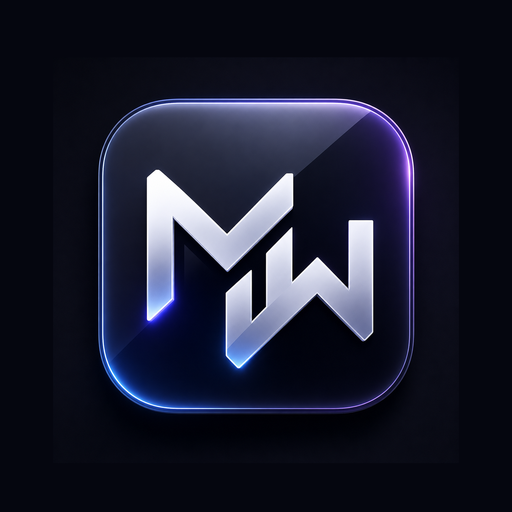
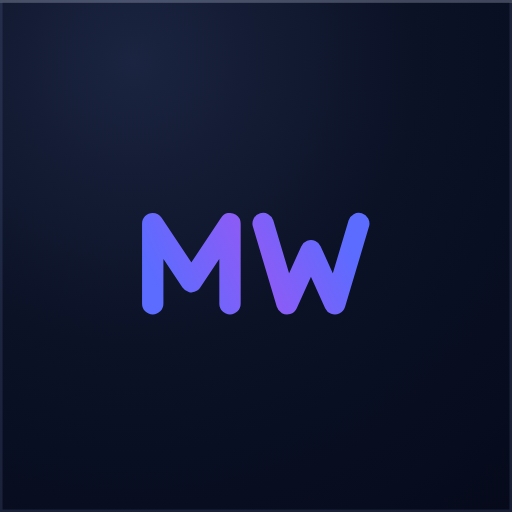
prévia v101-beta: ícone MW correto e cor de destaque funcionando
Os ícones do PWA passam a sair do mesmo desenho da marca de dentro do app
— o anterior era outro traçado, que no tamanho da tela de início do
iPhone lia "EW".

A cor de destaque passa a funcionar de verdade: uma semente por cor e por
tema, com todo o resto derivado. A implementação antiga gravava as
variáveis como estilo inline (que vence qualquer folha) e escrevia só
três dos tokens, deixando realces e links no roxo original.

Claude-Session: https://claude.ai/code/session_012kzAwK6kJPTUP3Xikghae8

diff --git a/beta/index.html b/beta/index.html
@@ -37,6 +37,12 @@ try {
 (function(){try{
   var d = JSON.parse(localStorage.getItem('mateusWorkspaceV4') || '{}');
   document.documentElement.setAttribute('data-ds-tema', d.theme === 'light' ? 'claro' : 'escuro');
+  /* A COR DE DESTAQUE entra aqui pelo mesmo motivo que o tema: ela é a
+     semente de onde nascem todos os tokens de acento. Se fosse aplicada
+     depois, o primeiro quadro sairia roxo e viraria verde na frente da
+     pessoa — o "pisca" que o §5 manda não existir. */
+  var cor = ((d.settings || {}).accent) || 'indigo';
+  document.documentElement.setAttribute('data-acento', cor);
 }catch(e){ document.documentElement.setAttribute('data-ds-tema','escuro'); }})();
 </script>
 <link rel="stylesheet" href="ds/mw-ds.css">
@@ -22857,12 +22863,13 @@ html:root{
   --id-txt:#e9eefb;
   --id-txt-2:#b0bcd8; /* Etapa 0: era #a6b2ce e batia EXATAMENTE em 4,5:1 sobre o cartão de entrada — no limite, ou seja, reprovando por arredondamento. Clareado o suficiente para sair do fio da navalha. */
   --id-txt-3:#7b88a6;
-  /* acento: azul que caminha pro violeta */
-  --id-ac:#5b6cff;
-  --id-ac-2:#8b5cf6;
-  --id-ac-grad:linear-gradient(135deg,#4f5bff 0%,#8b5cf6 100%);
-  --id-ac-suave:rgba(91,108,255,.16);
-  --id-ac-txt:#93a3ff;
+  /* O ACENTO SAIU DAQUI (§2, §42).
+     Estes cinco eram hexadecimais escritos à mão, e enquanto existissem
+     não havia como trocar a cor do app sem caçar cada um. Agora eles
+     nascem todos da semente `--sem-1`/`--sem-2`, na folha
+     `mw-acento-configuravel` logo abaixo — uma origem só. Apagar aqui é o
+     conserto na origem; deixar os dois e empurrar o novo com
+     especificidade seria a camada em cima que não pode existir. */
   /* semânticas — cada uma com o par cor/fundo já resolvido */
   --id-ok:#34d399;      --id-ok-bg:rgba(16,185,129,.15);   --id-ok-bd:rgba(16,185,129,.26);
   --id-alerta:#fbbf24;  --id-alerta-bg:rgba(245,158,11,.15); --id-alerta-bd:rgba(245,158,11,.26);
@@ -22891,11 +22898,7 @@ html body.light{
      achatar os dois no mesmo tom só pra passar. */
   --id-txt-2:#4d5875;
   --id-txt-3:#5f6983;
-  --id-ac:#4f5bff;
-  --id-ac-2:#7c3aed;
-  --id-ac-grad:linear-gradient(135deg,#4f5bff 0%,#7c3aed 100%);
-  --id-ac-suave:rgba(79,91,255,.10);
-  --id-ac-txt:#4338ca;
+  /* idem para o tema claro: a semente do claro vive na folha do acento. */
   /* no claro o texto da cor precisa escurecer pra manter AA sobre o
      fundo tonalizado — não basta reusar o tom do escuro */
   --id-ok:#047857;      --id-ok-bg:rgba(5,150,105,.11);    --id-ok-bd:rgba(5,150,105,.24);
@@ -22905,6 +22908,87 @@ html body.light{
   --id-neutro:#475569;  --id-neutro-bg:rgba(71,85,105,.09); --id-neutro-bd:rgba(71,85,105,.18);
   --id-sombra:0 1px 2px rgba(20,40,90,.06),0 10px 28px rgba(20,40,90,.08);
   --id-sombra-alta:0 2px 4px rgba(20,40,90,.08),0 18px 44px rgba(20,40,90,.12);
+}
+</style>
+
+<style id="mw-acento-configuravel">
+/* =====================================================================
+   §2 — A COR DE DESTAQUE, CONFIGURÁVEL
+   =====================================================================
+   Antes desta folha o acento era um par de hexadecimais escritos à mão em
+   `--id-ac` / `--id-ac-2`, e mais uns tantos espalhados. Trocar a cor do
+   app significaria caçar todos eles — que é exatamente como o arquivo
+   ficou com azul, roxo, laranja e verde convivendo sem ninguém mandar.
+
+   Agora existe UMA SEMENTE por tema (`--sem-1`, `--sem-2`) e todo o resto
+   é DERIVADO dela com `color-mix`. Trocar a cor é trocar duas variáveis;
+   as 80 regras que leem `--ds-ac` e as 35 que leem `--mw-ac` acompanham
+   sozinhas, porque as duas famílias passam a nascer da mesma semente.
+
+   Por que semente diferente no claro: a mesma cor não serve nos dois
+   fundos. Sobre azul-noite o acento precisa ser mais luminoso para
+   aparecer; sobre branco precisa ser mais fundo para o texto branco em
+   cima dele passar de 4,5:1. Não é "inverter" — é reequilibrar.
+
+   O acento é IDENTIDADE, não papel de parede (§2): ele pinta o que é
+   ação, estado e marca. Superfície e fundo continuam neutros e frios —
+   é o contraste entre os dois que faz a cor ser percebida como escolha.
+   ===================================================================== */
+
+/* ---- as sementes, por cor (tema ESCURO) ----
+   Os ids são os que o seletor de Configurações já usava — índigo, ciano,
+   violeta, verde, âmbar, rosa. Não inventei nomes novos: a lista de cores
+   já existia, o que faltava era ela chegar até aqui. */
+html:root                          { --sem-1:#5b6cff; --sem-2:#8b5cf6; }  /* índigo — padrão */
+html:root[data-acento="ciano"]     { --sem-1:#0ea5e9; --sem-2:#22d3ee; }
+html:root[data-acento="violeta"]   { --sem-1:#8b5cf6; --sem-2:#d946ef; }
+html:root[data-acento="verde"]     { --sem-1:#10b981; --sem-2:#34d399; }
+html:root[data-acento="ambar"]     { --sem-1:#f59e0b; --sem-2:#fbbf24; }
+html:root[data-acento="rosa"]      { --sem-1:#ec4899; --sem-2:#f472b6; }
+
+/* ---- as sementes, por cor (tema CLARO) ----
+   Mais fundas: a mesma cor que brilha sobre azul-noite fica lavada sobre
+   branco, e o texto branco em cima dela não chega a 4,5:1. Não é inverter,
+   é reequilibrar — que é o que o §4 pede. */
+html:root body.light                        { --sem-1:#4f5bff; --sem-2:#7c3aed; }
+html:root[data-acento="ciano"] body.light   { --sem-1:#0369a1; --sem-2:#0e7490; }
+html:root[data-acento="violeta"] body.light { --sem-1:#7c3aed; --sem-2:#a21caf; }
+html:root[data-acento="verde"] body.light   { --sem-1:#047857; --sem-2:#0f766e; }
+html:root[data-acento="ambar"] body.light   { --sem-1:#b45309; --sem-2:#a16207; }
+html:root[data-acento="rosa"] body.light    { --sem-1:#be185d; --sem-2:#a21caf; }
+
+/* ---- tudo o mais deriva ---- */
+html:root, html:root body.light{
+  --id-ac:      var(--sem-1);
+  --id-ac-2:    var(--sem-2);
+  --id-ac-grad: linear-gradient(135deg, var(--sem-1) 0%, var(--sem-2) 100%);
+  --id-ac-suave:color-mix(in srgb, var(--sem-1) 15%, transparent);
+  --id-ac-forte:color-mix(in srgb, var(--sem-1) 88%, black);
+  --id-ac-brilho:color-mix(in srgb, var(--sem-1) 38%, transparent);
+}
+/* Texto DA cor sobre superfície: no escuro clareia, no claro escurece —
+   senão um dos dois some no fundo. */
+html:root      { --id-ac-txt: color-mix(in srgb, var(--sem-1) 62%, #ffffff); }
+html:root body.light { --id-ac-txt: color-mix(in srgb, var(--sem-1) 86%, #000000); }
+
+/* ---- transição de tema e de cor (§5) ----
+   Só o que muda de cor transita, e por 240ms. Transicionar `all` faria o
+   app inteiro rastejar a cada troca de tela. */
+html.mw-troca-tema body,
+html.mw-troca-tema .ds-topo,
+html.mw-troca-tema .sidebar,
+html.mw-troca-tema #mwBottomNav,
+html.mw-troca-tema .ds-chapa,
+html.mw-troca-tema .ds-peca,
+html.mw-troca-tema .ds-agora,
+html.mw-troca-tema .ds-btn,
+html.mw-troca-tema .ds-nav-item{
+  transition: background-color 240ms ease, background-image 240ms ease,
+              border-color 240ms ease, color 240ms ease,
+              box-shadow 240ms ease !important;
+}
+@media (prefers-reduced-motion: reduce){
+  html.mw-troca-tema *{ transition: none !important; }
 }
 </style>
 
@@ -24925,10 +25009,33 @@ html body #app .mw-cor:focus-visible{ outline:3px solid color-mix(in srgb,var(--
      aqui repinta navegação, chips, links e marca de uma vez. */
   function aplicaCor(){
     var c = corDe(prefs().accent);
-    var raiz = document.documentElement.style;
-    raiz.setProperty('--id-ac', c.a);
-    raiz.setProperty('--id-ac-2', c.b);
-    raiz.setProperty('--id-ac-grad', 'linear-gradient(135deg,' + c.a + ' 0%,' + c.b + ' 100%)');
+    var raiz = document.documentElement;
+    /* ANTES: esta função gravava --id-ac, --id-ac-2 e --id-ac-grad como
+       ESTILO INLINE no <html>. Três problemas, e todos apareciam na tela:
+
+       1. inline vence qualquer folha, então nenhuma regra CSS conseguia
+          participar da cor — inclusive as do tema claro;
+       2. só três dos tokens de acento eram escritos. `--id-ac-suave` e
+          `--id-ac-txt` continuavam com o valor índigo original, então ao
+          escolher verde o app ficava verde nos botões e ROXO nos realces
+          e nos links. Era daí que vinha a mistura de cores;
+       3. não havia versão para o tema claro: a mesma cor luminosa ia
+          para cima do branco e o texto branco em cima dela não passava
+          de 4,5:1.
+
+       AGORA: escreve só o ATRIBUTO. A folha `mw-acento-configuravel`
+       tem a semente de cada cor nos dois temas e DERIVA todo o resto com
+       color-mix — inclusive os dois tokens que faltavam. A função voltou
+       a ter uma responsabilidade só: dizer qual cor está escolhida. */
+    raiz.setAttribute('data-acento', c.id);
+    var st = raiz.style;
+    st.removeProperty('--id-ac');
+    st.removeProperty('--id-ac-2');
+    st.removeProperty('--id-ac-grad');
+    /* A troca não pode piscar (§5). */
+    raiz.classList.add('mw-troca-tema');
+    clearTimeout(aplicaCor._t);
+    aplicaCor._t = setTimeout(function(){ raiz.classList.remove('mw-troca-tema'); }, 320);
     document.querySelectorAll('#mwCores .mw-cor').forEach(function(bt){
       bt.setAttribute('aria-checked', bt.getAttribute('data-cor') === c.id ? 'true' : 'false');
     });
@@ -31063,7 +31170,7 @@ html body .mw-pular:focus{ transform: translateY(0); }
   /* O carimbo entra depois do preloader para não brigar com a abertura
      da marca, e sai sozinho. window.MW_PREVIA fica disponível para
      conferir a versão pelo console sem depender de ver o carimbo. */
-  window.MW_PREVIA = 'v100-beta';
+  window.MW_PREVIA = 'v101-beta';
   function mostra(){
     if (document.getElementById('mwPreviaCarimbo')) return;
     var el = document.createElement('div');

diff --git a/beta/ds/mw-ds.css b/beta/ds/mw-ds.css
@@ -133,12 +133,17 @@
   --mw-txt-3:var(--mw-p-gelo-500);
   --mw-txt-sobre-acento:#ffffff;
 
-  /* acento */
-  --mw-ac:var(--mw-p-azul-500);
-  --mw-ac-2:var(--mw-p-violeta-500);
-  --mw-ac-txt:var(--mw-p-azul-300);
-  --mw-ac-suave:rgba(91,108,255,.16);
-  --mw-ac-grad:linear-gradient(135deg, var(--mw-p-azul-600) 0%, var(--mw-p-violeta-500) 100%);
+  /* ACENTO — derivado da semente única do app (§2).
+     Os valores da paleta ficam como RECUO: se a folha de acento não
+     estiver carregada (a galeria do sistema, por exemplo), o sistema
+     continua com o par índigo→violeta. Mas dentro do app quem manda é
+     `--id-ac`, que por sua vez nasce de `--sem-1`/`--sem-2` — então a cor
+     escolhida nas Configurações chega aqui sem nenhuma regra a mais. */
+  --mw-ac:var(--id-ac, var(--mw-p-azul-500));
+  --mw-ac-2:var(--id-ac-2, var(--mw-p-violeta-500));
+  --mw-ac-txt:var(--id-ac-txt, var(--mw-p-azul-300));
+  --mw-ac-suave:var(--id-ac-suave, rgba(91,108,255,.16));
+  --mw-ac-grad:var(--id-ac-grad, linear-gradient(135deg, var(--mw-p-azul-600) 0%, var(--mw-p-violeta-500) 100%));
   /* Um véu escuro sobre o gradiente. Texto branco sobre o acento puro mede
      4,0–4,4:1; com o véu passa de 4,5:1 sem mudar a cor percebida. */
   --mw-ac-grad-forte:linear-gradient(rgba(0,0,0,.16), rgba(0,0,0,.16)), var(--mw-ac-grad);
@@ -193,9 +198,9 @@ body.light .ds{
   --mw-txt-3:var(--mw-p-tinta-500);
   --mw-txt-sobre-acento:#ffffff;
 
-  --mw-ac:var(--mw-p-azul-600);
+  --mw-ac:var(--id-ac, var(--mw-p-azul-600));
   --mw-ac-txt:#3a49d8;
-  --mw-ac-suave:rgba(91,108,255,.10);
+  --mw-ac-suave:var(--id-ac-suave, rgba(91,108,255,.10));
 
   /* Medido no pixel: com fundo translúcido (12-14%), o selo no tema claro
      não pinta o suficiente para dominar — quem estabelece o contraste vira a
@@ -237,9 +242,9 @@ body.light .ds{
     --mw-txt-1:var(--mw-p-tinta-900);
     --mw-txt-2:var(--mw-p-tinta-700);
     --mw-txt-3:var(--mw-p-tinta-500);
-    --mw-ac:var(--mw-p-azul-600);
+    --mw-ac:var(--id-ac, var(--mw-p-azul-600));
     --mw-ac-txt:#3a49d8;
-    --mw-ac-suave:rgba(91,108,255,.10);
+    --mw-ac-suave:var(--id-ac-suave, rgba(91,108,255,.10));
     --mw-ok:var(--mw-p-verde-700); --mw-ok-bg:#e2f7f0;  --mw-ok-bd:rgba(4,120,87,.26);
     --mw-alerta:var(--mw-p-ambar-800); --mw-alerta-bg:#fef3e2;  --mw-alerta-bd:rgba(146,64,14,.26);
     --mw-perigo:var(--mw-p-rubro-700); --mw-perigo-bg:#fde9e9;  --mw-perigo-bd:rgba(185,28,28,.26);
@@ -1549,7 +1554,10 @@ body.light .ds{
   flex: 0 0 auto; display: inline-flex; align-items: center; gap: 6px;
   height: 36px; padding: 0 var(--mw-e-3); margin-left: 2px;
   border: 1px solid transparent; border-radius: 999px;
-  background: var(--mw-ac-grad); color: var(--mw-txt-sobre-acento);
+  /* `-grad-forte`, não `-grad`: o gradiente puro do acento dá 4,25:1 com o
+     branco em cima. A variante com véu escuro existe no sistema para
+     exatamente isto, e passa dos 4,5:1 sem mudar a cor percebida. */
+  background: var(--mw-ac-grad-forte); color: var(--mw-txt-sobre-acento);
   font: inherit; font-size: var(--mw-t-micro); font-weight: 650;
   cursor: pointer; box-shadow: var(--mw-sombra-1);
   transition: transform 90ms var(--mw-curva), box-shadow var(--mw-d-rapida) var(--mw-curva);
@@ -1763,3 +1771,32 @@ body.light .ds{
   .ds .ds-med:nth-child(odd){ border-left: 0; }
   .ds .ds-med-n{ font-size: 26px; }
 }
+
+/* ---- SELETOR DE COR DE DESTAQUE (Configurações › Aparência) -------------- */
+.ds .ds-cores{ display: flex; flex-wrap: wrap; gap: var(--mw-e-3); }
+.ds .ds-cor{
+  display: flex; flex-direction: column; align-items: center; gap: 6px;
+  padding: var(--mw-e-2); border: 1px solid transparent; border-radius: var(--mw-r-3);
+  background: none; font: inherit; cursor: pointer; min-width: 62px;
+  transition: background var(--mw-d-rapida) var(--mw-curva),
+              border-color var(--mw-d-rapida) var(--mw-curva);
+}
+.ds .ds-cor:hover{ background: var(--mw-sup-2); }
+.ds .ds-cor-disco{
+  width: 34px; height: 34px; border-radius: 50%;
+  box-shadow: inset 0 0 0 1px rgba(255,255,255,.18);
+  transition: transform var(--mw-d-rapida) var(--mw-curva-mola),
+              box-shadow var(--mw-d-rapida) var(--mw-curva);
+}
+.ds .ds-cor-nome{ font-size: var(--mw-t-micro); font-weight: 600; color: var(--mw-txt-3); }
+.ds .ds-cor[aria-pressed="true"]{ border-color: var(--mw-borda-forte); background: var(--mw-sup-2); }
+.ds .ds-cor[aria-pressed="true"] .ds-cor-disco{
+  transform: scale(1.06);
+  /* O anel usa a cor do CHÃO como separador, então o disco não encosta no
+     anel — é o mesmo desenho do foco do sistema, e funciona em qualquer
+     cor sem precisar de uma regra por cor. */
+  box-shadow: 0 0 0 2px var(--mw-sup-1), 0 0 0 4px var(--mw-txt-2),
+              inset 0 0 0 1px rgba(255,255,255,.22);
+}
+.ds .ds-cor[aria-pressed="true"] .ds-cor-nome{ color: var(--mw-txt-1); }
+.ds .ds-cor:focus-visible{ outline: none; box-shadow: var(--mw-foco); }
